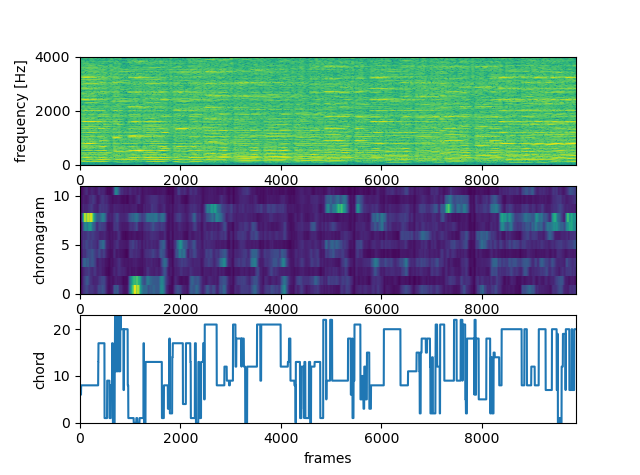
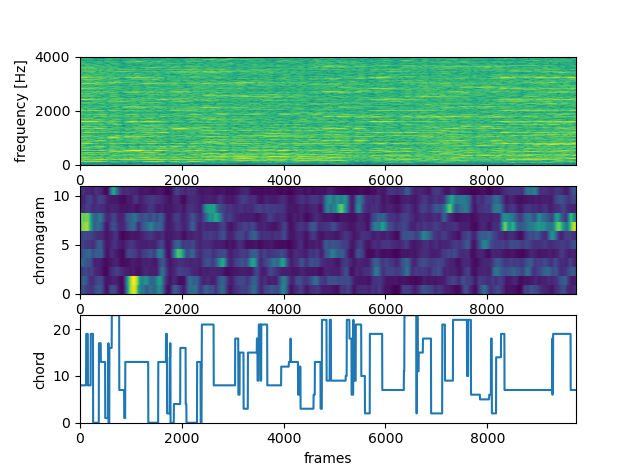
exercise14

diff --git a/exercise/exercise17/melody.py b/exercise/exercise17/melody.py
@@ -29,9 +29,9 @@ def calc_melody_likelihood(spectrum, notenum, frequencies):
 	# スペクトルの周波数ビン毎にクロマベクトルの対応する要素に振幅スペクトルを足しこむ
 	melody_likelihood = 0
 	amplitude_ratio = 1.0	# 倍音に減衰をかける
-	fundamental_frequency = int(nn2hz(notenum))
+	fundamental_frequency = np.abs(nn2hz(notenum))
 	for s, f in zip (spectrum, frequencies) :
-		if f % fundamental_frequency == 0 :
+		if np.abs(f) % fundamental_frequency == 0 :
 			melody_likelihood += np.abs(s) * amplitude_ratio
 			amplitude_ratio *= 0.5
 	return melody_likelihood
@@ -116,7 +116,7 @@ if __name__ == "__main__":
 	ax3 = ax2.twinx()
 	ax3.set_xlabel('time [s/16000]')
 	ax3.set_ylabel('melody')
-	ax3.plot(melody)
+	ax3.plot(melody, color = "r")
 
 	plt.show()
 

diff --git a/exercise/exercise16/chroma.py b/exercise/exercise16/chroma.py
@@ -7,8 +7,8 @@ import librosa
 # サンプリングレート
 SR = 16000
 
-# フレームサイズ(2^11=2048)
-size_frame = 2 ** 11
+# フレームサイズ(2^12=4096)
+size_frame = 2 ** 12
 
 # フレームサイズに合わせてブラックマン窓を作成
 window = np.blackman(size_frame)

diff --git a/exercise/exercise14/zero_cross.py b/exercise/exercise14/zero_cross.py
@@ -7,7 +7,7 @@ import librosa
 SR = 16000
 
 # フレームサイズ
-size_frame = 512
+size_frame = 4096
 
 # フレームサイズに合わせてブラックマン窓を作成
 window = np.blackman(size_frame)
